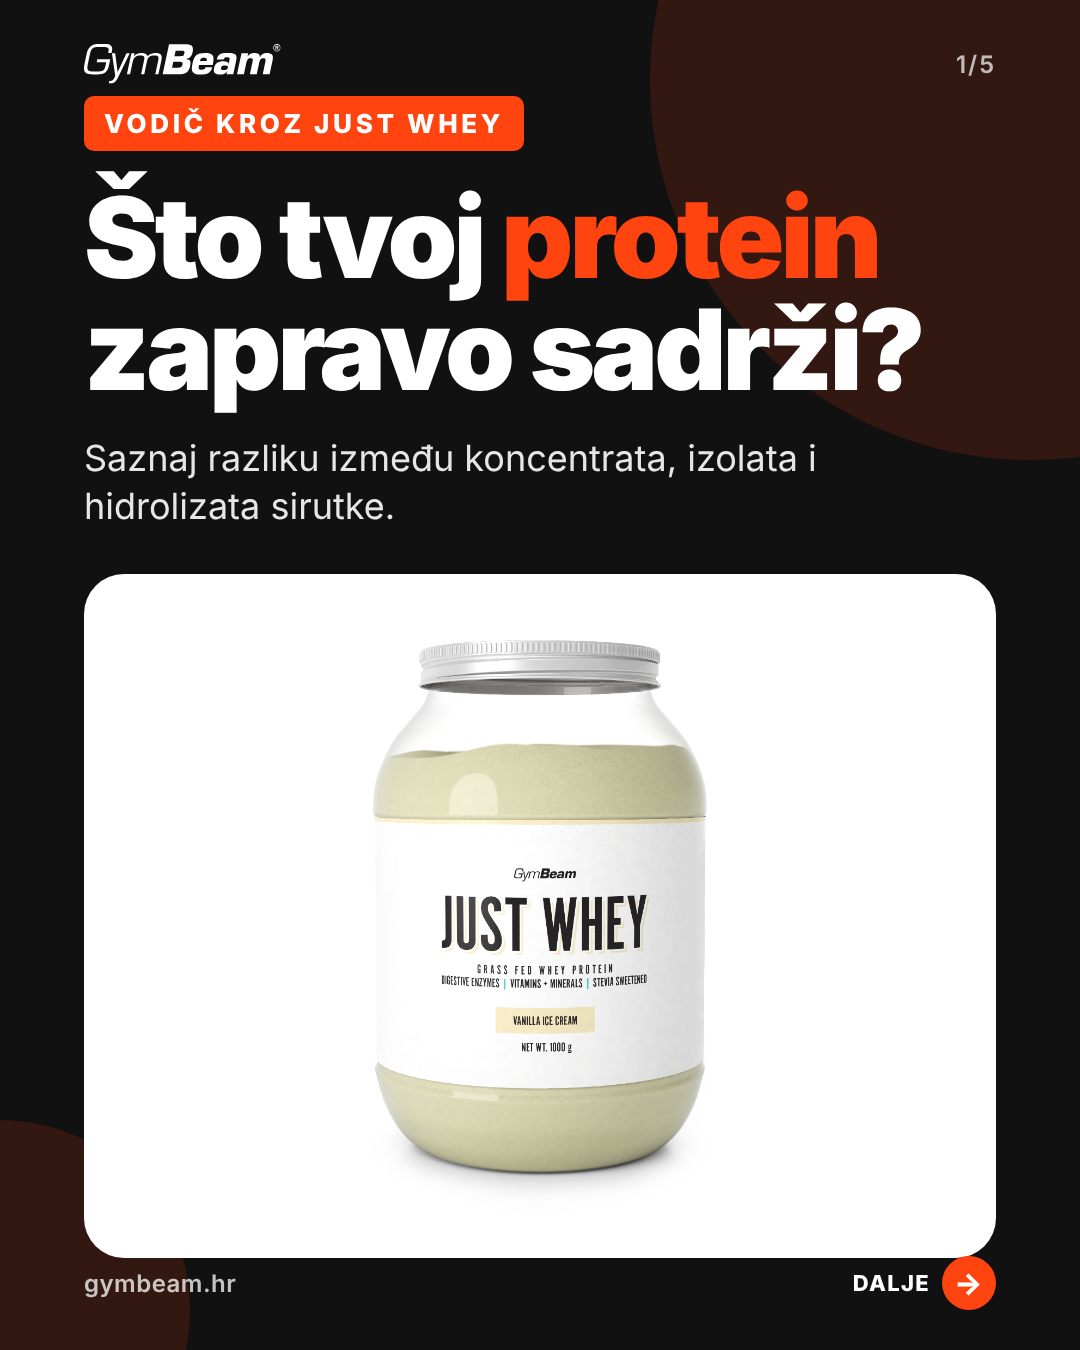
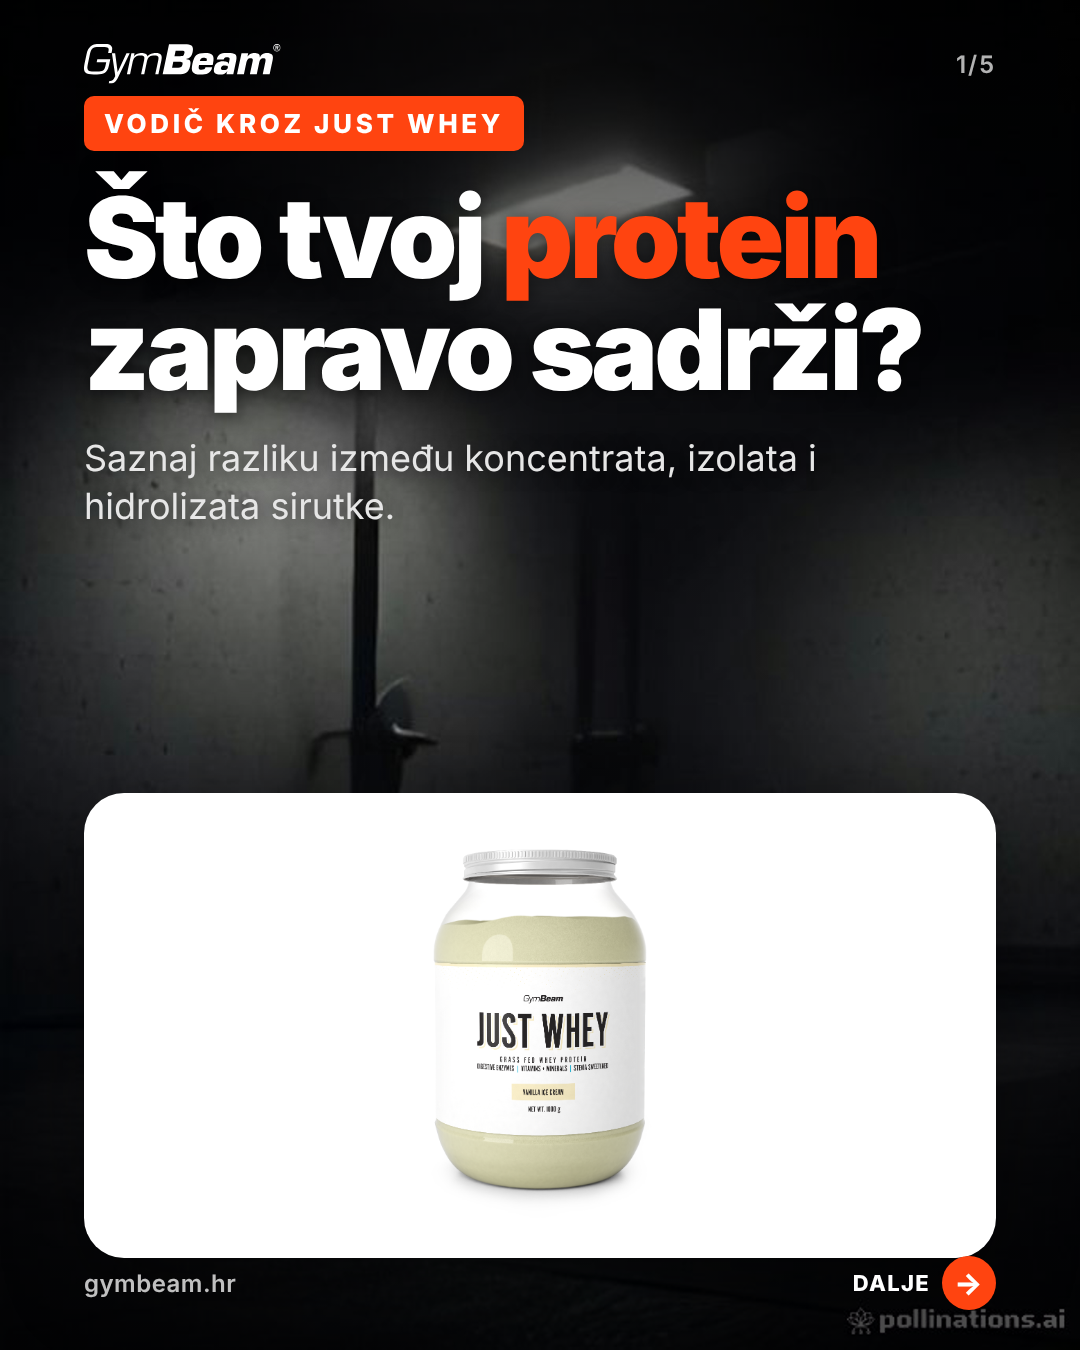
Lanac LLM pružatelja (Gemini/Groq/OpenRouter), AI scene (ručno/Hugging Face/Pollinations)
Claude-Session: https://claude.ai/code/session_01Umr9Ak1QN2MX34DvjRqNA5

diff --git a/recept/llm.py b/recept/llm.py
@@ -1,14 +1,15 @@
 """Sloj za jezične modele.
 
-Podržana su tri načina rada (``llm.provider`` u config.yaml):
+Načini rada (config.yaml → ``llm``):
 
-* ``gemini``  – Google Gemini preko OpenAI-kompatibilnog endpointa
-                (besplatni API ključ iz Google AI Studija, varijabla GEMINI_API_KEY).
-* ``openai``  – bilo koji OpenAI-kompatibilni endpoint (OpenAI, OpenRouter, lokalni
-                server …), varijable OPENAI_API_KEY i po želji OPENAI_BASE_URL.
-* ``manual``  – bez API ključa: prompt se zapisuje u datoteku, korisnik ga zalijepi u
-                ChatGPT / Gemini / Claude chat i odgovor spremi u pripremljenu
-                datoteku; ponovno pokretanje iste faze nastavlja dalje.
+* ``providers`` – lanac OpenAI-kompatibilnih pružatelja (Gemini, Groq, OpenRouter …), svaki
+  sa svojom varijablom za ključ i listom modela. Recept kruži kroz sve parove
+  (pružatelj, model) redom prioriteta: kad je jedan preopterećen (503) ili potroši kvotu
+  (429), prelazi na sljedeći. Pružatelj bez postavljenog ključa se preskače.
+* ``provider: manual`` – bez API ključa: prompt se zapisuje u datoteku, korisnik ga
+  zalijepi u ChatGPT / Gemini / Claude chat i odgovor spremi u pripremljenu datoteku;
+  ponovno pokretanje iste faze nastavlja dalje.
+* (kompatibilnost) ``provider: gemini`` ili ``provider: openai`` + ``models``.
 
 Svi pozivi vraćaju čisti tekst; ``chat_json`` dodatno parsira JSON odgovor.
 """
@@ -32,34 +33,44 @@ class ManualStepRequired(Exception):
     """Ručni način rada: prompt je zapisan, čeka se odgovor korisnika."""
 
 
+def _targets(cfg: dict) -> list[dict]:
+    """Lista (pružatelj, model) parova redom prioriteta."""
+    providers = cfg.get("providers")
+    if not providers:  # stari oblik konfiguracije
+        prov = cfg.get("provider", "gemini")
+        providers = [{
+            "name": prov,
+            "base_url": GEMINI_BASE if prov == "gemini" else os.environ.get("OPENAI_BASE_URL", "https://api.openai.com/v1"),
+            "key_env": "GEMINI_API_KEY" if prov == "gemini" else "OPENAI_API_KEY",
+            "models": cfg.get("models") or ["gemini-3.5-flash"],
+        }]
+    out = []
+    for p in providers:
+        key = os.environ.get(p.get("key_env", ""), "")
+        if not key:
+            continue
+        for m in p.get("models", []):
+            m = m if isinstance(m, dict) else {"id": m}
+            out.append({"provider": p["name"], "base_url": p["base_url"].rstrip("/"), "key": key,
+                        "model": m["id"], "vision": m.get("vision", p.get("vision", True)),
+                        "extra_headers": p.get("headers", {})})
+    return out
+
+
 class LLM:
     def __init__(self, cfg: dict, run_dir: Path):
         self.cfg = cfg or {}
-        self.provider = self.cfg.get("provider", "gemini")
-        self.models = self.cfg.get("models") or ["gemini-3.5-flash"]
+        self.provider = self.cfg.get("provider", "chain" if self.cfg.get("providers") else "gemini")
         self.temperature = self.cfg.get("temperature", 0.7)
         self.max_retries = int(self.cfg.get("max_retries", 6))
         self.timeout = int(self.cfg.get("timeout_s", 240))
         self.run_dir = run_dir
         self.log_path = run_dir / "llm_log.jsonl"
-
-        if self.provider == "gemini":
-            self.base_url = GEMINI_BASE
-            self.api_key = os.environ.get("GEMINI_API_KEY", "")
-        elif self.provider == "openai":
-            self.base_url = os.environ.get("OPENAI_BASE_URL", "https://api.openai.com/v1").rstrip("/")
-            self.api_key = os.environ.get("OPENAI_API_KEY", "")
-        elif self.provider == "manual":
-            self.base_url = self.api_key = ""
-        else:
-            raise ValueError(f"Nepoznat llm.provider: {self.provider}")
-
-        if self.provider != "manual" and not self.api_key:
-            sys.exit(
-                f"Nedostaje API ključ za provider '{self.provider}'. Postavi "
-                f"{'GEMINI_API_KEY' if self.provider == 'gemini' else 'OPENAI_API_KEY'} "
-                "(vidi .env.example) ili u config.yaml stavi llm.provider: manual."
-            )
+        self.targets = [] if self.provider == "manual" else _targets(self.cfg)
+        if self.provider != "manual" and not self.targets:
+            envs = [p.get("key_env") for p in self.cfg.get("providers", [])] or ["GEMINI_API_KEY"]
+            sys.exit("Nijedan pružatelj nema API ključ. Postavi barem jednu od varijabli: "
+                     + ", ".join(envs) + " (vidi .env.example) ili u config.yaml stavi llm.provider: manual.")
 
     # ------------------------------------------------------------------ javno
     def chat(self, system: str, user: str, *, step: str, images: list[Path] | None = None,
@@ -91,50 +102,52 @@ class LLM:
             content = [{"type": "text", "text": user}]
             for img in images:
                 content.append({"type": "image_url", "image_url": {"url": _data_uri(img)}})
-        body = {
-            "messages": [{"role": "system", "content": system}, {"role": "user", "content": content}],
-            "temperature": self.temperature,
-        }
-        if json_mode:
-            body["response_format"] = {"type": "json_object"}
+        messages = [{"role": "system", "content": system}, {"role": "user", "content": content}]
 
-        # Besplatni modeli su povremeno preopterećeni (HTTP 503/429). Umjesto dugog
-        # čekanja na jedan model, kružimo kroz listu modela u nekoliko krugova;
-        # prvi model u listi je preferirani (najkvalitetniji).
+        # Besplatni modeli su povremeno preopterećeni (HTTP 503/429). Umjesto dugog čekanja
+        # na jedan model, kružimo kroz sve (pružatelj, model) parove u nekoliko krugova;
+        # prvi u listi je preferirani (najkvalitetniji).
+        candidates = [t for t in self.targets if t["vision"] or not images]
+        if not candidates:
+            raise RuntimeError("Nijedan konfigurirani model ne prima slike, a korak ih treba.")
         errors, dead = [], set()
         for rnd in range(self.max_retries):
-            for model in self.models:
-                if model in dead:
+            for t in candidates:
+                tid = f"{t['provider']}/{t['model']}"
+                if tid in dead:
                     continue
-                body["model"] = model
+                body = {"model": t["model"], "messages": messages, "temperature": self.temperature}
+                if json_mode:
+                    body["response_format"] = {"type": "json_object"}
                 t0 = time.time()
                 try:
-                    r = requests.post(
-                        f"{self.base_url}/chat/completions",
-                        headers={"Authorization": f"Bearer {self.api_key}",
-                                 "Content-Type": "application/json"},
-                        json=body, timeout=self.timeout)
+                    r = requests.post(f"{t['base_url']}/chat/completions",
+                                      headers={"Authorization": f"Bearer {t['key']}",
+                                               "Content-Type": "application/json", **t["extra_headers"]},
+                                      json=body, timeout=self.timeout)
                 except requests.RequestException as e:
-                    errors.append(f"{model}: {e}")
+                    errors.append(f"{tid}: {e}")
                     continue
                 if r.status_code == 200:
                     data = r.json()
                     if isinstance(data, list):
                         data = data[0]
-                    text = data["choices"][0]["message"].get("content") or ""
+                    text = (data.get("choices") or [{}])[0].get("message", {}).get("content") or ""
                     if text.strip():
-                        self._log(step, model, time.time() - t0, system, user, text, images)
-                        print(f"    ({model}, {time.time() - t0:.0f} s)")
+                        self._log(step, tid, time.time() - t0, system, user, text, images)
+                        print(f"    ({tid}, {time.time() - t0:.0f} s)")
                         return text
-                    errors.append(f"{model}: prazan odgovor")
+                    errors.append(f"{tid}: prazan odgovor")
                     continue
                 msg = _err_msg(r)
-                errors.append(f"{model} HTTP {r.status_code}: {msg[:160]}")
-                print(f"  ! {model} HTTP {r.status_code}: {msg[:70]}{msg[msg.find(' [kvota'):] if ' [kvota' in msg else ''}",
+                errors.append(f"{tid} HTTP {r.status_code}: {msg[:160]}")
+                print(f"  ! {tid} HTTP {r.status_code}: {msg[:70]}{msg[msg.find(' [kvota'):] if ' [kvota' in msg else ''}",
                       file=sys.stderr)
-                if r.status_code in (400, 401, 403, 404) or (r.status_code == 429 and ("per day" in msg.lower() or "PerDay" in msg)):
-                    dead.add(model)  # model nedostupan ili dnevna kvota potrošena
-            if len(dead) == len(self.models):
+                low = msg.lower()
+                if r.status_code in (400, 401, 403, 404, 413) or (
+                        r.status_code == 429 and ("per day" in low or "perday" in low or "daily" in low)):
+                    dead.add(tid)  # model nedostupan, ne prima zahtjev ili je dnevna kvota potrošena
+            if len(dead) == len(candidates):
                 break
             time.sleep(min(60, 10 * (rnd + 1)))
         raise RuntimeError("Svi modeli su odbili zahtjev:\n  " + "\n  ".join(errors[-8:]))

diff --git a/recept/scene.py b/recept/scene.py
@@ -1,0 +1,106 @@
+"""Opcionalni korak – AI pozadinske scene za odabrane kadrove.
+
+Ulaz: ``<run>/ai_scene.yaml`` – popis {objava, kadar, format, prompt}. Ako ne postoji,
+stvara se iz polja ``ai_scena_prompt`` iz faze izrade (za prvi kadar svake objave), a
+čovjek ga može doraditi. Svakom promptu dodaju se pravila brenda (bez teksta, logotipa i
+ambalaže – proizvod uvijek dolazi iz originalne fotografije).
+
+Izlaz: ``<run>/ai_slike/objava{N}_kadar{M}.png``; render ih koristi kao pozadinu kadra.
+
+Generatori: ``rucno`` (PROMPTOVI.md za ChatGPT/Gemini aplikaciju), ``huggingface``
+(FLUX, HF_TOKEN), ``pollinations`` (bez ključa, niža kvaliteta).
+"""
+from __future__ import annotations
+
+import io
+import json
+import os
+import time
+import urllib.parse
+from pathlib import Path
+
+import requests
+import yaml
+from PIL import Image
+
+RULES = ("No text, no letters, no numbers, no logos, no watermarks, no product packaging. "
+         "Keep the lower half of the frame dark and simple: a product card and text will be placed there.")
+SIZES = {"karusel": (1080, 1350), "slika": (1080, 1350), "story": (1080, 1920)}
+
+
+def spec(run_dir: Path) -> list[dict]:
+    f = run_dir / "ai_scene.yaml"
+    if f.exists():
+        return yaml.safe_load(f.read_text(encoding="utf-8")) or []
+    content = json.loads((run_dir / "05_sadrzaj.json").read_text(encoding="utf-8"))
+    items = [{"objava": p["broj"], "kadar": 1, "format": p.get("format", "karusel"), "prompt": p["ai_scena_prompt"]}
+             for p in content["objave"] if p.get("ai_scena_prompt")]
+    f.write_text("# AI pozadinske scene – uredi prompt po želji, zatim: python -m recept scene\n"
+                 + yaml.safe_dump(items, allow_unicode=True, sort_keys=False, width=100), encoding="utf-8")
+    return items
+
+
+def full_prompt(item: dict) -> str:
+    ratio = "vertical 9:16" if item.get("format") == "story" else "vertical 4:5"
+    return f"{item['prompt'].strip()} {RULES} Format: {ratio}."
+
+
+def _save(img_bytes: bytes, out: Path, size: tuple[int, int]):
+    im = Image.open(io.BytesIO(img_bytes)).convert("RGB")
+    # izreži na točan omjer kadra (cover), bez rastezanja
+    W, H = size
+    scale = max(W / im.width, H / im.height)
+    im = im.resize((round(im.width * scale), round(im.height * scale)), Image.LANCZOS)
+    left, top = (im.width - W) // 2, (im.height - H) // 2
+    im.crop((left, top, left + W, top + H)).save(out, optimize=True)
+
+
+def huggingface(prompt: str, size, model: str) -> bytes:
+    token = os.environ.get("HF_TOKEN")
+    if not token:
+        raise SystemExit("Za generator 'huggingface' postavi HF_TOKEN (vidi .env.example).")
+    w, h = (size[0] // 16 * 16 * 3 // 4, size[1] // 16 * 16 * 3 // 4)  # manje = brže i jeftinije
+    w, h = w - w % 16, h - h % 16
+    r = requests.post(f"https://router.huggingface.co/hf-inference/models/{model}",
+                      headers={"Authorization": f"Bearer {token}"},
+                      json={"inputs": prompt, "parameters": {"width": w, "height": h}}, timeout=300)
+    if r.status_code != 200 or not r.headers.get("content-type", "").startswith("image/"):
+        raise RuntimeError(f"Hugging Face HTTP {r.status_code}: {r.text[:200]}")
+    return r.content
+
+
+def pollinations(prompt: str, size, seed: int = 7) -> bytes:
+    url = (f"https://image.pollinations.ai/prompt/{urllib.parse.quote(prompt)}"
+           f"?width={size[0]}&height={size[1]}&seed={seed}&nologo=true")
+    r = requests.get(url, timeout=300)
+    if r.status_code != 200 or not r.headers.get("content-type", "").startswith("image/"):
+        raise RuntimeError(f"Pollinations HTTP {r.status_code}")
+    return r.content
+
+
+def run(run_dir: Path, cfg: dict, generator: str | None = None, overwrite: bool = False):
+    gen = generator or cfg.get("generator", "rucno")
+    out_dir = run_dir / "ai_slike"
+    out_dir.mkdir(parents=True, exist_ok=True)
+    items = spec(run_dir)
+    if gen == "rucno":
+        lines = ["# Promptovi za AI pozadinske scene", "",
+                 "Svaki prompt zalijepi u ChatGPT ili Gemini (novi chat), preuzmi sliku i spremi je pod",
+                 "navedenim imenom u ovu mapu. Zatim: `python -m recept pokreni --run <run> --od render`.", ""]
+        for it in items:
+            lines += [f"## objava{it['objava']}_kadar{it['kadar']}.png ({it.get('format')})", "", "```",
+                      full_prompt(it), "```", ""]
+        (out_dir / "PROMPTOVI.md").write_text("\n".join(lines), encoding="utf-8")
+        print(f"  → {out_dir / 'PROMPTOVI.md'}")
+        return
+    for it in items:
+        out = out_dir / f"objava{it['objava']}_kadar{it['kadar']}.png"
+        if out.exists() and not overwrite:
+            print(f"  · {out.name} već postoji – preskačem (--prepisi za novu)")
+            continue
+        size = SIZES.get(it.get("format"), SIZES["karusel"])
+        t0 = time.time()
+        data = (huggingface(full_prompt(it), size, cfg.get("huggingface_model", "black-forest-labs/FLUX.1-schnell"))
+                if gen == "huggingface" else pollinations(full_prompt(it), size))
+        _save(data, out, size)
+        print(f"  · {out.name} ({gen}, {time.time() - t0:.0f} s)")

diff --git a/recept/cli.py b/recept/cli.py
@@ -26,6 +26,7 @@ import yaml
 
 from . import provjera as checks
 from . import render as rnd
+from . import scene as scenes
 from . import scrape
 from .llm import LLM, ManualStepRequired
 
@@ -502,6 +503,11 @@ def main(argv=None):
     r.add_argument("--od", choices=PHASES, help="ponovno pokreni od ove faze (nadalje)")
     r.add_argument("--do", choices=PHASES, help="stani nakon ove faze (npr. 'plan' za ljudsko odobrenje)")
     r.add_argument("--objave", help="samo ove objave, npr. 2 ili 1,3 (faze izrada/render/provjera)")
+    sc = sub.add_parser("scene", help="AI pozadinske scene za kadrove (ručno / huggingface / pollinations)")
+    sc.add_argument("--run", default="runs/gymbeam_hr")
+    sc.add_argument("--config")
+    sc.add_argument("--generator", choices=["rucno", "huggingface", "pollinations"])
+    sc.add_argument("--prepisi", action="store_true", help="ponovno generiraj postojeće slike")
     d = sub.add_parser("dorada", help="primijeni ljudske dorade (YAML) na sadržaj objava")
     d.add_argument("--run", default="runs/gymbeam_hr")
     d.add_argument("--datoteka", required=True)
@@ -513,6 +519,12 @@ def main(argv=None):
         interactive_brief(Path(args.izlaz))
     elif args.cmd == "pokreni":
         Run(args).run()
+    elif args.cmd == "scene":
+        cfg_path = Path(args.config) if args.config else (ROOT / "config.yaml")
+        if not cfg_path.exists():
+            cfg_path = ROOT / "config.example.yaml"
+        cfg = yaml.safe_load(cfg_path.read_text(encoding="utf-8")) or {}
+        scenes.run(Path(args.run), cfg.get("slike", {}), args.generator, args.prepisi)
     elif args.cmd == "dorada":
         apply_human_edits(Path(args.run), Path(args.datoteka))
     else:

diff --git a/runs/gymbeam_hr/ai_slike/PROMPTOVI.md b/runs/gymbeam_hr/ai_slike/PROMPTOVI.md
@@ -1,0 +1,22 @@
+# Promptovi za AI pozadinske scene
+
+Svaki prompt zalijepi u ChatGPT ili Gemini (novi chat), preuzmi sliku i spremi je pod
+navedenim imenom u ovu mapu. Zatim: `python -m recept pokreni --run <run> --od render`.
+
+## objava1_kadar1.png (karusel)
+
+```
+Cinematic photo of a dark modern gym at night: a steel barbell on a rack, chalk dust floating in the air, dramatic warm orange (#FF4410) rim light from the right, deep black shadows, shallow depth of field, photorealistic. Keep the main subject in the upper part of the frame. No text, no letters, no numbers, no logos, no watermarks, no product packaging. Keep the lower half of the frame dark and simple: a product card and text will be placed there. Format: vertical 4:5.
+```
+
+## objava3_kadar1.png (story)
+
+```
+Playful 3D render: a cute gingerbread man doing a biceps curl with a tiny dumbbell, standing on a dark green surface among small wrapped gifts and warm fairy lights, festive bokeh, rich dark green background with warm orange (#FF4410) accents. Keep the gingerbread man in the upper part of the frame. No text, no letters, no numbers, no logos, no watermarks, no product packaging. Keep the lower half of the frame dark and simple: a product card and text will be placed there. Format: vertical 9:16.
+```
+
+## objava3_kadar4.png (story)
+
+```
+Cozy festive evening scene: a window with falling snow, warm fairy lights and a mug of hot cocoa on a dark wooden table, soft bokeh, dark moody tones with a warm orange (#FF4410) glow. Keep the details in the upper part of the frame. No text, no letters, no numbers, no logos, no watermarks, no product packaging. Keep the lower half of the frame dark and simple: a product card and text will be placed there. Format: vertical 9:16.
+```
